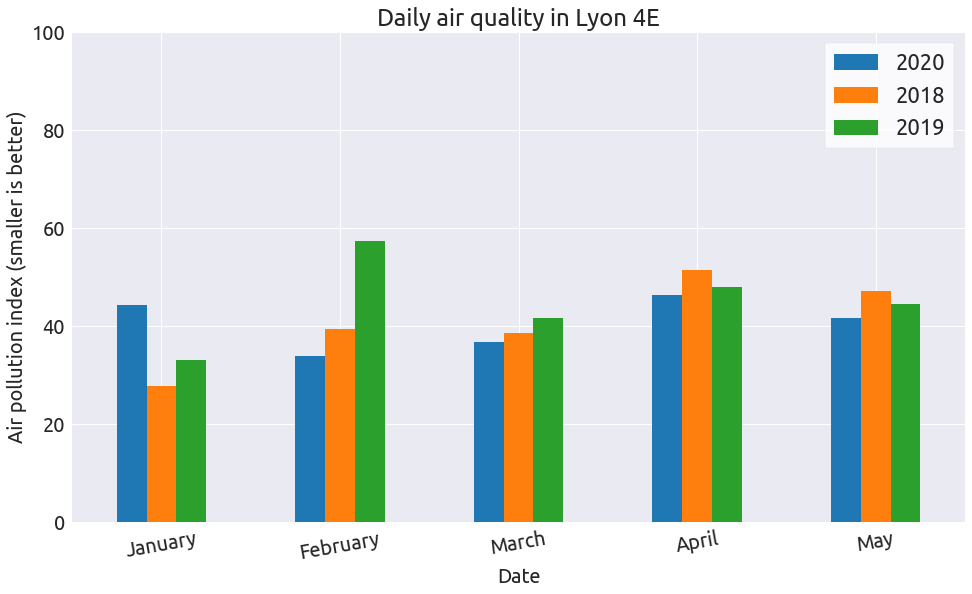
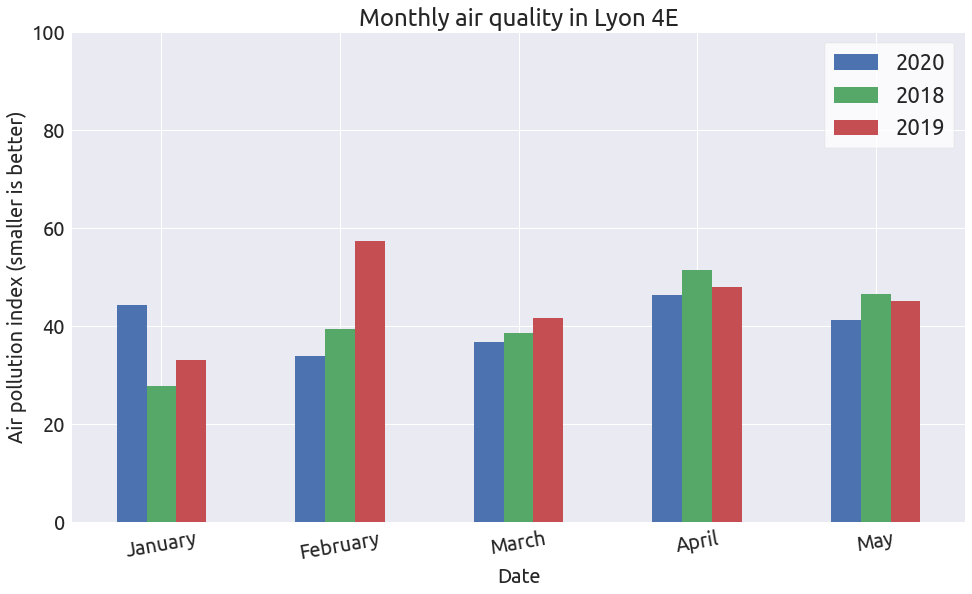
small update

diff --git a/_posts/2020-05-22-A-Quick-study-of-air-quality-in-Lyon-with-Python.md b/_posts/2020-05-22-A-Quick-study-of-air-quality-in-Lyon-with-Python.md
@@ -6,11 +6,14 @@ author: François Pacull
 tags: Python Pandas GET API
 ---
 
-The aim of this post is to use Python to fetch air quality data from a web service and make some plots. 
+The aim of this post is to use Python to fetch air quality data from a web service and to create a few plots. 
 
-We are going to look at some data from earlier this year, before and after the lockdown and eventually compare 2020 with some from previous years, in the city of Lyon, France. 
+We are going to: 
+- look at some daily data from earlier this year, before and after the lockdown, in the city of Lyon, France
+- compare 2020 with some from previous years
+- and eventually look at some specific pollutants
 
-The data is provided by an institute called [Atmo](https://www.atmo-auvergnerhonealpes.fr/) monitoring air quality over the Auvergne-Rhône-Alpes region in France. They also come up with an API (HTTP GET method). An API token is required to use it, that you get from their website, after registration.
+The data is provided by an institute called [Atmo](https://www.atmo-auvergnerhonealpes.fr/) monitoring air quality over the Auvergne-Rhône-Alpes region. They also come up with an web API (HTTP GET method). An API token is required to use it, that you easily get from their website, after registration.
 
 
 
@@ -18,9 +21,10 @@ The data is provided by an institute called [Atmo](https://www.atmo-auvergnerhon
 
 
 ```python
+from datetime import datetime
+
 import requests
 import pandas as pd
-from datetime import datetime
 from fastprogress.fastprogress import progress_bar
 from matplotlib import pyplot as plt
 
@@ -63,13 +67,13 @@ data
 
 
 
-Since we will not change the location (4th district in Lyon), we only need to keep the `valeur` key from this dictionary, which is the air pollution index value. It ranges from 0 to 100, but could also rise above 100, which would mean that the warning threshold is exceeded, implying a risk to the health of the whole population or to environmental degradation justifying the implementation of emergency measures.
+Since we will not change the location (4th district in Lyon), we only need to keep the `date` and `valeur` items from this dictionary, which is the air pollution index value. It ranges from 0 to 100, but could also rise above 100, which would mean that the warning threshold is exceeded. This would imply a serious risk to the population and the environment justifying the implementation of emergency measures.
 
 Note that you can get historic values but also forecasts if you enter a future date in the `get` params (2 day horizon at most when I tried that).
 
 So let's fetch the daily pollution index on a temporal range starting at the begining of 2020 and ending today.
 
-## Air Quality in 2020 so far
+## Daily air quality in 2020 so far
 
 First we create a date range:
 
@@ -258,17 +262,15 @@ Well we do not see a significant drop in air pollution during the lockdown that 
 
 From what I understand, an index is computed for each of these three pollutants, and the air pollution index corresponds a combination of these three values. So the pollution index will keep being large if any of these pollutant concentrations remain large.
 
-Now theses pollutants have very different origins: NO2 is mainly related to road traffic and other fossil fuel combustion processes, PM10 to wood heating (in the suburb) and agriculture. O3 is more complex; here is a quote from [wikipedia](https://en.wikipedia.org/wiki/Ozone#Ozone_air_pollution):
+Now theses pollutants have very different origins: NO2 is mainly related to road traffic and other fossil fuel combustion processes, PM10 to wood heating (in the suburb), agriculture,... O3 is more complex; here is a quote from [wikipedia](https://en.wikipedia.org/wiki/Ozone#Ozone_air_pollution):
 
 > Ozone precursors are a group of pollutants, predominantly those emitted during the combustion of fossil fuels. Ground-level ozone pollution (tropospheric ozone) is created near the Earth's surface by the action of daylight UV rays on these precursors. The ozone at ground level is primarily from fossil fuel precursors, but methane is a natural precursor, and the very low natural background level of ozone at ground level is considered safe.
 
-So these levels of pollution also depends on the weather. A cold dry weather may yield more PM10 pollution due to heating. A sunny weather without wind may increase the level of ozone pollution, while some rain may "clean" the particles, I guess.
-
-
+And of course these levels of pollution also depends on the weather. A cold weather may yield more PM10 pollution due to heating. A sunny weather may increase the level of ozone pollution, while some rain may "clean" the particles, I guess. So many factors contribute to air pollution.
 
 Concerning the first part of 2020, let's try to compare the above pollution values with the ones recorded in the 2 previous years.
 
-## Air Quality from 2018 to 2020
+## Monthly air quality from 2018 to 2020
 
 We already have the data for 2020, so we now fetch the data for the same range of days (january 1 to may 22), but for 2018 and 2019. The data from previous years (<2018) does not seem to be available on the web service.
 
@@ -396,7 +398,7 @@ df_hist.head(2)
 
 
 
-Now we merge the data corresponding to the 3 different years:
+And we merge the data corresponding to the 3 different years:
 
 
 ```python
@@ -477,10 +479,10 @@ Let's plot the monthly average:
 monthly = df_all.resample("M").mean()
 monthly["month"] = monthly.index.month_name()
 monthly.set_index("month", inplace=True, drop=True)
-ax = monthly.plot.bar(figsize=FS, color=colors, rot=10)
+ax = monthly.plot.bar(figsize=FS, rot=10)
 _ = ax.set_ylim(0, 100)
 _ = ax.set(
-    title=f"Daily air quality in Lyon 4E",
+    title=f"Monthly air quality in Lyon 4E",
     xlabel="Date",
     ylabel="Air pollution index (smaller is better)",
 )
@@ -494,7 +496,7 @@ Well there is no significant difference between the different years.
 
 Unfortunately the web service does not offer separate data for each pollutant. However these data are available from their website [here](https://www.atmo-auvergnerhonealpes.fr/donnees/telecharger), as CSV files.
 
-## Evolution of each pollutant
+## Daily concentration of 3 pollutants
 
 We download the data for the 3 pollutants seen earlier, on the same time range and with the same frequency. Let's look at the first file:
 
@@ -530,21 +532,7 @@ NO2
       <th>Mesure</th>
       <th>Unité</th>
       <th>01/01/2020</th>
-      <th>02/01/2020</th>
-      <th>03/01/2020</th>
-      <th>04/01/2020</th>
-      <th>05/01/2020</th>
-      <th>06/01/2020</th>
       <th>...</th>
-      <th>13/05/2020</th>
-      <th>14/05/2020</th>
-      <th>15/05/2020</th>
-      <th>16/05/2020</th>
-      <th>17/05/2020</th>
-      <th>18/05/2020</th>
-      <th>19/05/2020</th>
-      <th>20/05/2020</th>
-      <th>21/05/2020</th>
       <th>22/05/2020</th>
     </tr>
   </thead>
@@ -556,21 +544,7 @@ NO2
       <td>Dioxyde d'azote</td>
       <td>microg/m3</td>
       <td>38,2</td>
-      <td>42,6</td>
-      <td>64,4</td>
-      <td>34,5</td>
-      <td>25,4</td>
-      <td>54,1</td>
       <td>...</td>
-      <td>17</td>
-      <td>8,3</td>
-      <td>10,6</td>
-      <td>5,3</td>
-      <td>4,4</td>
-      <td>7,8</td>
-      <td>4,7</td>
-      <td>6,1</td>
-      <td>6,4</td>
       <td>18,3</td>
     </tr>
   </tbody>
@@ -631,7 +605,7 @@ NO2.head(2)
 
 
 
-Now we do the same with the two other files and concatenate them:
+Now we do the same with the two other files and concatenate the 3 columns:
 
 
 ```python
